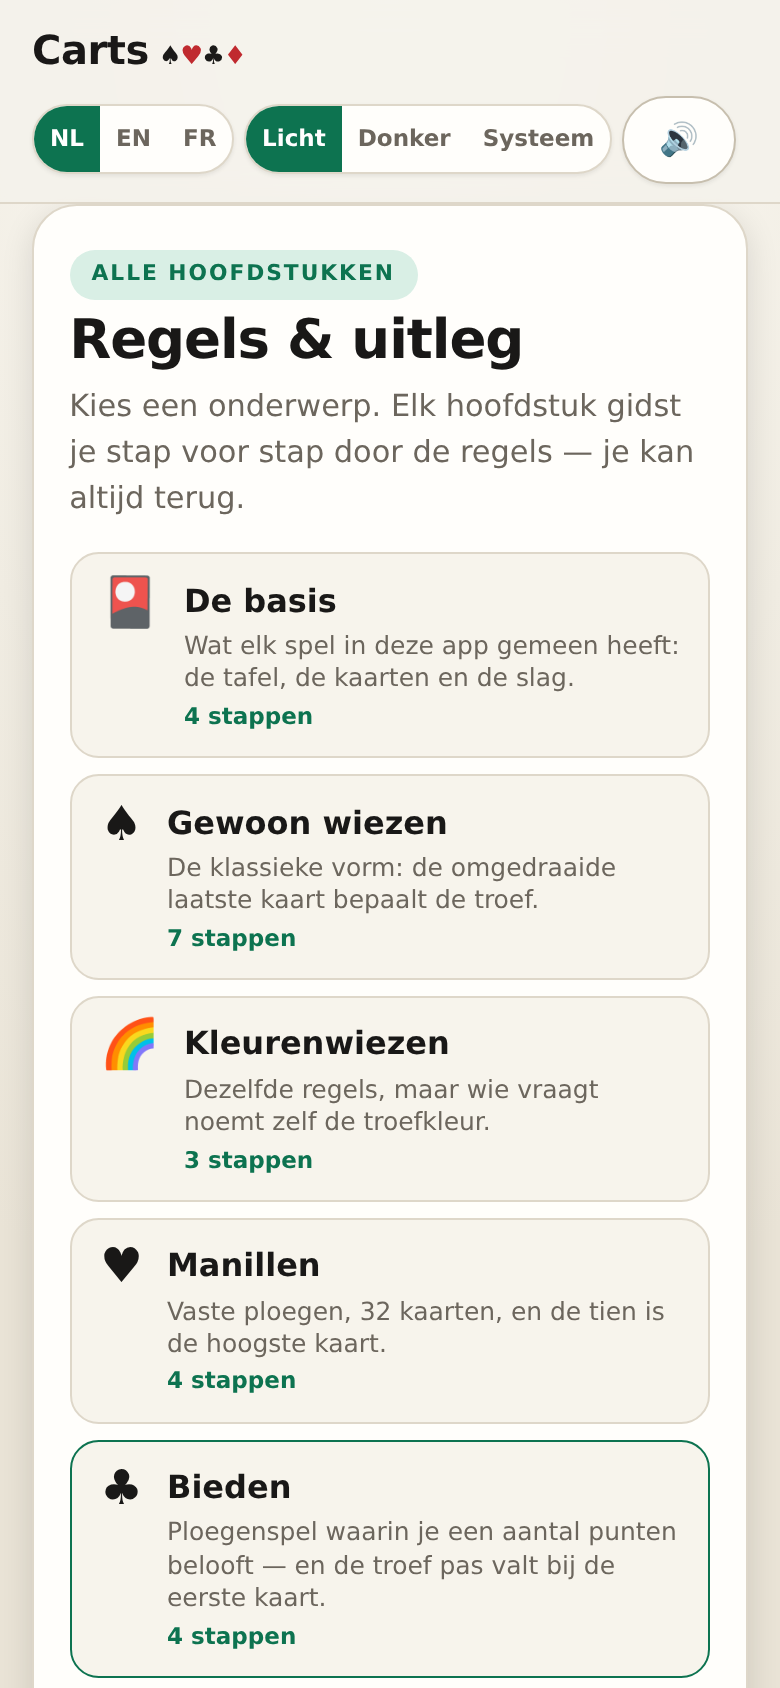
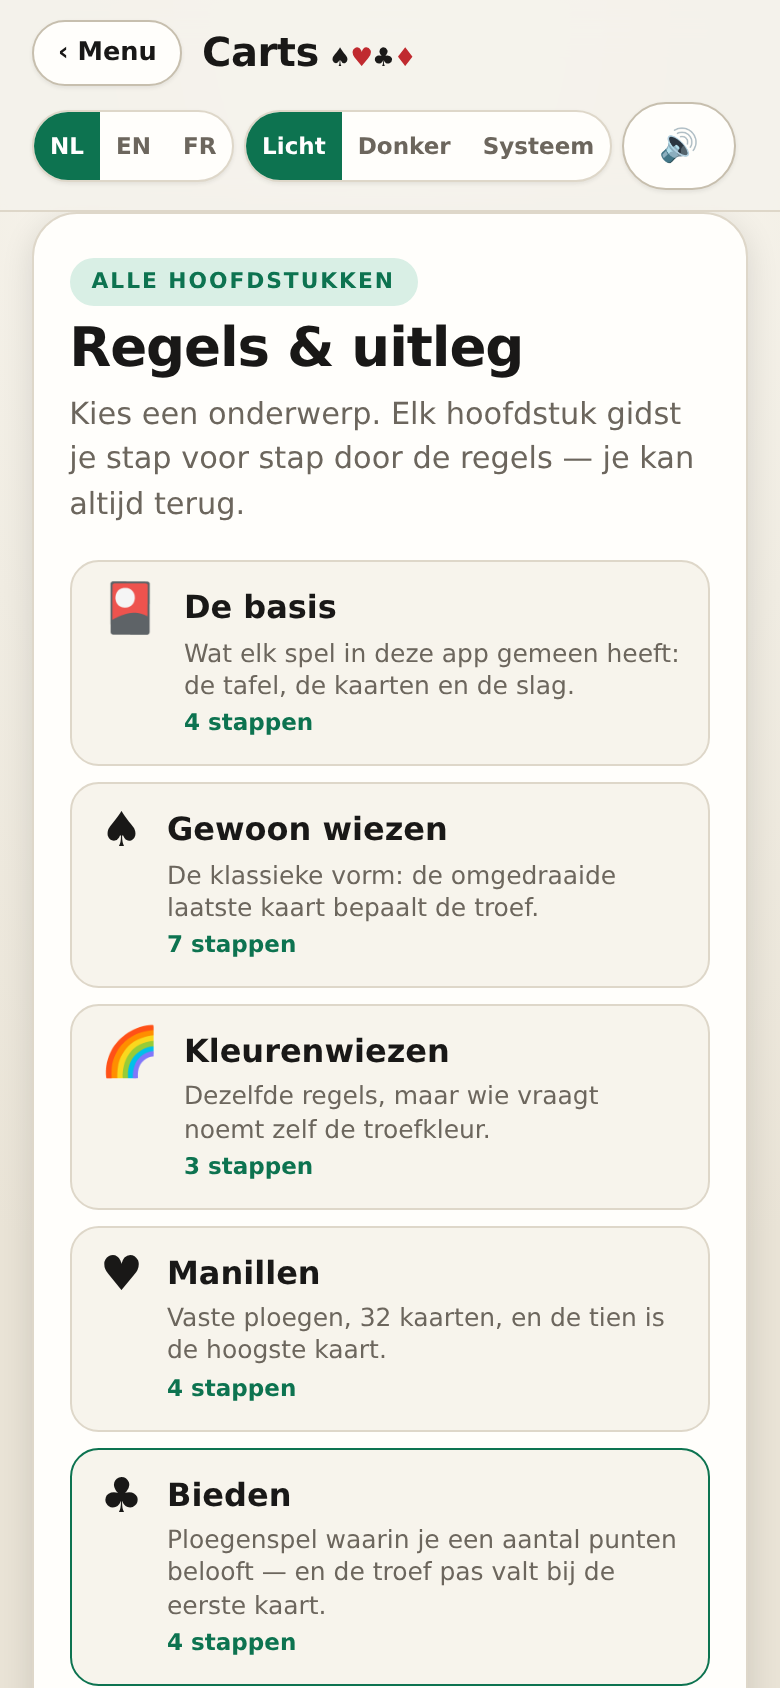
fix(carts): menuknop tijdens het spel + spelkeuze in de starterswizard
Twee dingen die de app onbruikbaar krap maakten.

Je kon niet uit een lopend spel
De topbar had enkel taal, thema en geluid: zodra een sessie liep was er geen
weg terug naar het startscherm. Er staat nu een "‹ Menu"-knop in de topbar
op elk scherm behalve het startscherm zelf. Ze zet het spel niet stop — het
blijft in het geheugen én in localStorage staan, hangende botbeurten worden
geannuleerd en het startscherm biedt "Verder spelen" aan om precies daar
weer op te pikken. Bottimers vuren niet meer door terwijl je in het menu
staat.

Je kon enkel wiezen leren
De starterswizard toonde altijd het spel dat op het startscherm geselecteerd
stond, en er was geen manier om binnen de wizard van spel te wisselen. De
wizard heeft nu bovenaan een keuze tussen wiezen, manillen en bieden; die
keuze wordt bewaard, net als op het startscherm.

Claude-Session: https://claude.ai/code/session_01MgRtQzS8fjuh9rrNQPLfzZ

diff --git a/carts/src/main.ts b/carts/src/main.ts
@@ -64,7 +64,7 @@ if (!app) throw new Error('#app ontbreekt');
 
 const RULESET_KEY = 'carts.ruleset';
 let ruleset = getRuleset('vlaams-standaard') as Ruleset;
-let view: 'home' | 'stats' | 'scorebord' | 'wizard' | 'guide' = 'home';
+let view: 'home' | 'game' | 'stats' | 'scorebord' | 'wizard' | 'guide' = 'home';
 
 // Coach & starterswizard.
 let coachOn = loadCoachEnabled();
@@ -205,6 +205,7 @@ function startSession(): void {
   session = store.replay(ruleset, persisted);
   bidLog = [];
   seedTroelLog(false);
+  view = 'game';
   render();
   scheduleBots();
 }
@@ -217,6 +218,7 @@ function continueSession(): void {
   botLevel = persisted.botLevel;
   restored = null;
   rebuildBidLog(persisted);
+  view = 'game';
   render();
   scheduleBots();
 }
@@ -332,7 +334,7 @@ function scheduleBots(): void {
   const pause = gift?.phase === 'play' && gift.trick.length === 0 && gift.lastTrick;
   window.setTimeout(
     () => {
-      if (gen !== generation || game !== 'wiezen') return;
+      if (gen !== generation || game !== 'wiezen' || view !== 'game') return;
       if (botStep()) {
         render();
         scheduleBots();
@@ -409,8 +411,36 @@ function cardEl(card: Card, opts?: { onClick?: () => void; disabled?: boolean })
   return span;
 }
 
+/** Loopt er een spel in het geheugen dat je kan hervatten? */
+function liveSession(): boolean {
+  if (game === 'manille') return Boolean(mSession && !mSession.finished);
+  if (game === 'bieden') return Boolean(bSession && !bSession.finished);
+  return Boolean(session && !session.finished);
+}
+
+/** Terug naar het startscherm. Het spel blijft staan — botbeurten pauzeren. */
+function goHome(): void {
+  generation += 1; // hangende bottimers annuleren (alle drie de spellen delen de teller)
+  view = 'home';
+  render();
+}
+
+/** Verder waar je gebleven was, inclusief de botbeurt die aan de gang was. */
+function resumeGame(): void {
+  view = 'game';
+  render();
+  if (game === 'manille') scheduleManilleBots();
+  else if (game === 'bieden') scheduleBiedenBots();
+  else scheduleBots();
+}
+
 function topbar(): HTMLElement {
   const header = el('header', 'topbar');
+  const left = el('div', 'topbar-left');
+  // Zonder deze knop zit je in een spel of scherm vast: er was geen weg terug.
+  if (view !== 'home') {
+    left.append(button(`\u2039 ${t('controls.menu')}`, 'btn back', () => goHome()));
+  }
   const brand = el('div', 'brand');
   brand.innerHTML =
     'Carts<span class="suits" aria-hidden="true"><span class="suit-black">♠</span>' +
@@ -455,7 +485,8 @@ function topbar(): HTMLElement {
   soundBtn.setAttribute('aria-pressed', String(soundEnabled()));
 
   controls.append(langGroup, themeGroup, soundBtn);
-  header.append(brand, controls);
+  left.append(brand);
+  header.append(left, controls);
   return header;
 }
 
@@ -685,7 +716,28 @@ function startScreen(): HTMLElement {
 
   // Primaire actie: groot en als eerste bereikbaar met de duim.
   const row = el('div', 'btn-row stack');
-  if (game === 'bieden') {
+  if (liveSession()) {
+    // Je stapte via de menuknop uit een lopend spel: hervatten mag niet
+    // betekenen dat je die partij per ongeluk weggooit.
+    row.append(button(t('start.resume'), 'btn primary big', resumeGame));
+    row.append(
+      button(t('start.new'), 'btn', () => {
+        if (game === 'manille') {
+          store.clearManille();
+          mRestored = null;
+          startManille();
+        } else if (game === 'bieden') {
+          store.clearBieden();
+          bRestored = null;
+          startBieden();
+        } else {
+          store.clear();
+          restored = null;
+          startSession();
+        }
+      }),
+    );
+  } else if (game === 'bieden') {
     if (hasRestore) {
       row.append(button(t('start.continue'), 'btn primary big', continueBieden));
       row.append(
@@ -952,6 +1004,32 @@ function wizardScreen(): HTMLElement {
   const main = el('main', 'hero wizard');
   main.append(el('span', 'phase', t('wizard.step', { n, total })));
   main.append(el('h1', undefined, t('wizard.title', { game: gameLabel() })));
+
+  // Je moest hiervoor eerst terug naar het startscherm om een ander spel te
+  // leren; nu wissel je gewoon hier van spel.
+  const games: ['wiezen' | 'manille' | 'bieden', MessageKey][] = [
+    ['wiezen', 'game.wiezen'],
+    ['manille', 'game.manillen'],
+    ['bieden', 'game.bieden'],
+  ];
+  const picker = el('div', 'seg wide');
+  picker.setAttribute('role', 'group');
+  picker.setAttribute('aria-label', t('wizard.pickGame'));
+  for (const [id, key] of games) {
+    picker.append(
+      segButton(t(key), game === id, () => {
+        game = id;
+        try {
+          localStorage.setItem(GAME_KEY, id);
+        } catch {
+          /* ignore */
+        }
+        wizardStep = 0;
+        render();
+      }),
+    );
+  }
+  main.append(picker);
 
   const dots = el('div', 'wizard-progress');
   dots.setAttribute('role', 'img');
@@ -1434,8 +1512,10 @@ function render(): void {
     wrap.append(wizardScreen());
   } else if (view === 'scorebord') {
     wrap.append(scorebordScreen());
-  } else if (view === 'stats' && !session && !mSession && !bSession) {
+  } else if (view === 'stats') {
     wrap.append(statsScreen());
+  } else if (view === 'home') {
+    wrap.append(startScreen());
   } else if (game === 'bieden') {
     if (!bSession || (!bGift && !bSession.finished)) {
       wrap.append(startScreen());
@@ -1511,6 +1591,7 @@ function startManille(): void {
   store.saveManille(mPersisted);
   mRestored = null;
   mSession = store.replayManille(mPersisted);
+  view = 'game';
   render();
   scheduleManilleBots();
 }
@@ -1521,6 +1602,7 @@ function continueManille(): void {
   mSession = mRestored.session;
   botLevel = mPersisted.botLevel;
   mRestored = null;
+  view = 'game';
   render();
   scheduleManilleBots();
 }
@@ -1567,7 +1649,7 @@ function scheduleManilleBots(): void {
   const pause = gift?.phase === 'play' && gift.trick.length === 0 && gift.lastTrick;
   window.setTimeout(
     () => {
-      if (gen !== generation || game !== 'manille') return;
+      if (gen !== generation || game !== 'manille' || view !== 'game') return;
       if (manilleBotStep()) {
         render();
         scheduleManilleBots();
@@ -1811,6 +1893,7 @@ function startBieden(): void {
   bRestored = null;
   bSession = store.replayBieden(bPersisted);
   biedenLog = [];
+  view = 'game';
   render();
   scheduleBiedenBots();
 }
@@ -1822,6 +1905,7 @@ function continueBieden(): void {
   botLevel = bPersisted.botLevel;
   bRestored = null;
   biedenLog = [];
+  view = 'game';
   render();
   scheduleBiedenBots();
 }
@@ -1875,7 +1959,7 @@ function scheduleBiedenBots(): void {
   const pause = gift?.phase === 'play' && gift.trick.length === 0 && gift.lastTrick;
   window.setTimeout(
     () => {
-      if (gen !== generation || game !== 'bieden') return;
+      if (gen !== generation || game !== 'bieden' || view !== 'game') return;
       if (biedenBotStep()) {
         render();
         scheduleBiedenBots();

diff --git a/carts/src/styles.css b/carts/src/styles.css
@@ -111,6 +111,21 @@ header.topbar {
   border-bottom: 1px solid var(--border);
 }
 
+.topbar-left {
+  display: flex;
+  align-items: center;
+  gap: 0.6rem;
+  min-width: 0;
+}
+
+/* Menuknop: klein maar altijd raakbaar, zodat je nooit in een spel vastzit. */
+.btn.back {
+  min-height: 2.1rem;
+  padding: 0.25rem 0.75rem;
+  font-size: 0.8rem;
+  border-radius: 999px;
+}
+
 .brand {
   display: flex;
   align-items: baseline;
